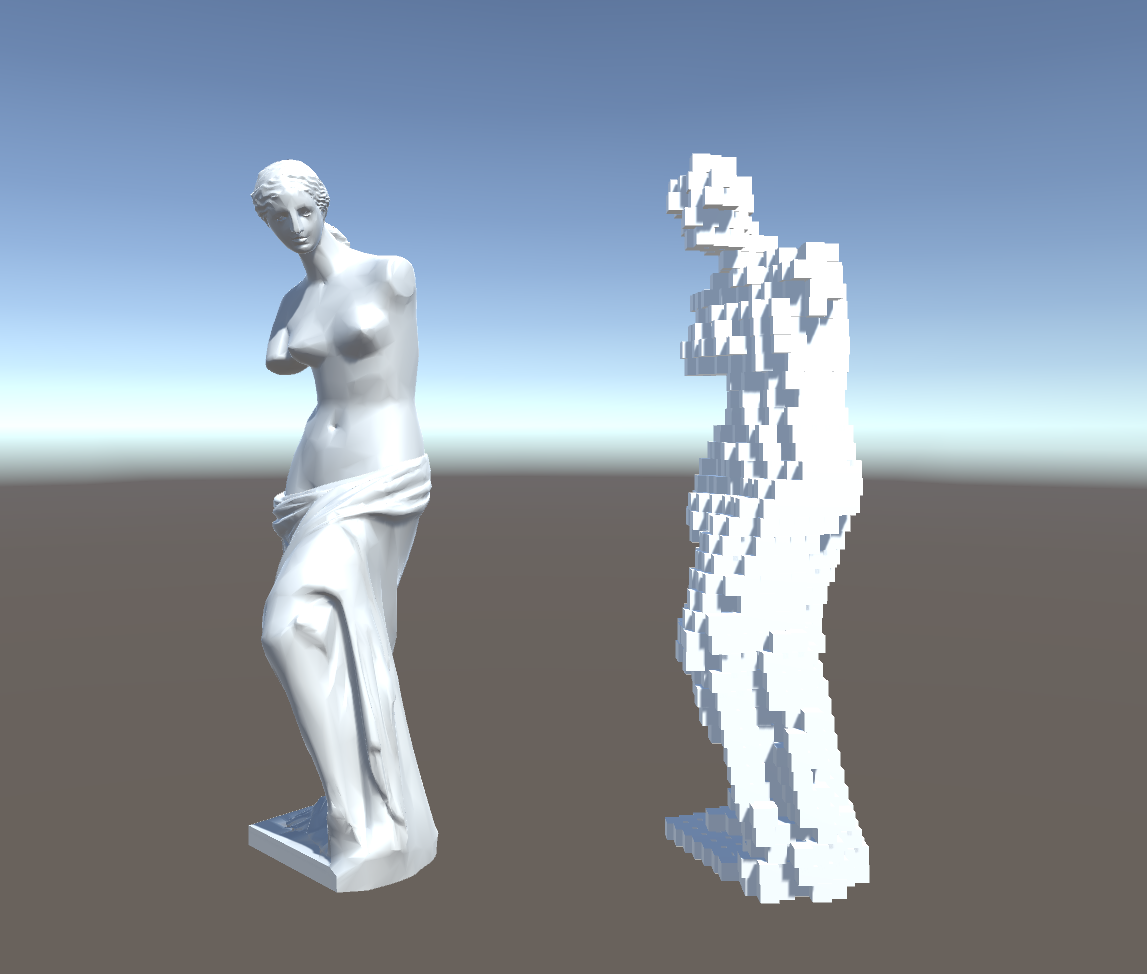
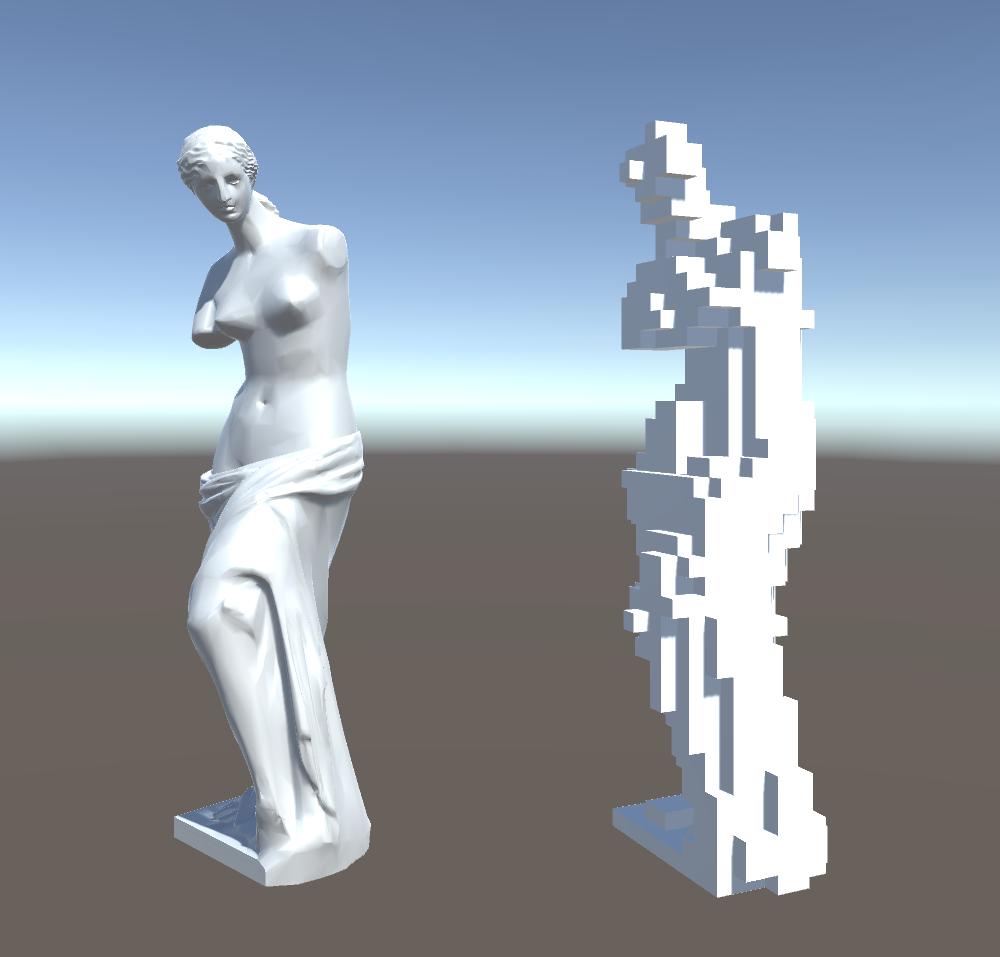
Fix a bug.

Changed region(s): [[0.0, 0.1212, 1.0, 0.9394]]

diff --git a/Assets/Packages/Voxelizer/Scripts/Voxelizer.cs b/Assets/Packages/Voxelizer/Scripts/Voxelizer.cs
@@ -106,24 +106,28 @@ namespace mattatz.VoxelSystem {
             return voxels;
         }
 
-        static List<Voxel> Build (Ray ray, List<HitResult> results, float size) {
+        static List<Voxel> Build (Ray ray, List<HitResult> results, float unit) {
             var voxels = new List<Voxel>();
 
             for (int i = 0, n = results.Count; i < n; i++) {
                 if(i % 2 == 0) {
                     if(i == n - 1) { // last
-                        voxels.Add(new Voxel(ray.origin + results[i].distance * ray.direction, size));
+                        voxels.Add(new Voxel(ray.origin + Grid(results[i].distance, unit) * ray.direction, unit));
                     }
                 } else {
-                    var from = results[i - 1];
-                    var to = results[i];
-                    for(float distance = from.distance; distance < to.distance; distance += size) {
-                        voxels.Add(new Voxel(ray.origin + distance * ray.direction, size));
+                    var from = Grid(results[i - 1].distance, unit);
+                    var to = Grid(results[i].distance, unit);
+                    for(float distance = from; distance < to; distance += unit) {
+                        voxels.Add(new Voxel(ray.origin + distance * ray.direction, unit));
                     }
                 }
             }
 
             return voxels;
+        }
+
+        static float Grid (float distance, float unit) {
+            return Mathf.FloorToInt(distance / unit) * unit;
         }
 
         static bool Hit(Ray ray, List<Triangle> triangles, out List<HitResult> results) {

diff --git a/Assets/Packages/Voxelizer/Scripts/Demo.cs b/Assets/Packages/Voxelizer/Scripts/Demo.cs
@@ -20,6 +20,7 @@ namespace mattatz.VoxelSystem {
                 cube.transform.parent = transform;
                 cube.transform.localPosition = voxel.position;
                 cube.transform.localScale = voxel.size * Vector3.one;
+                cube.transform.localRotation = Quaternion.identity;
             });
         }
         
